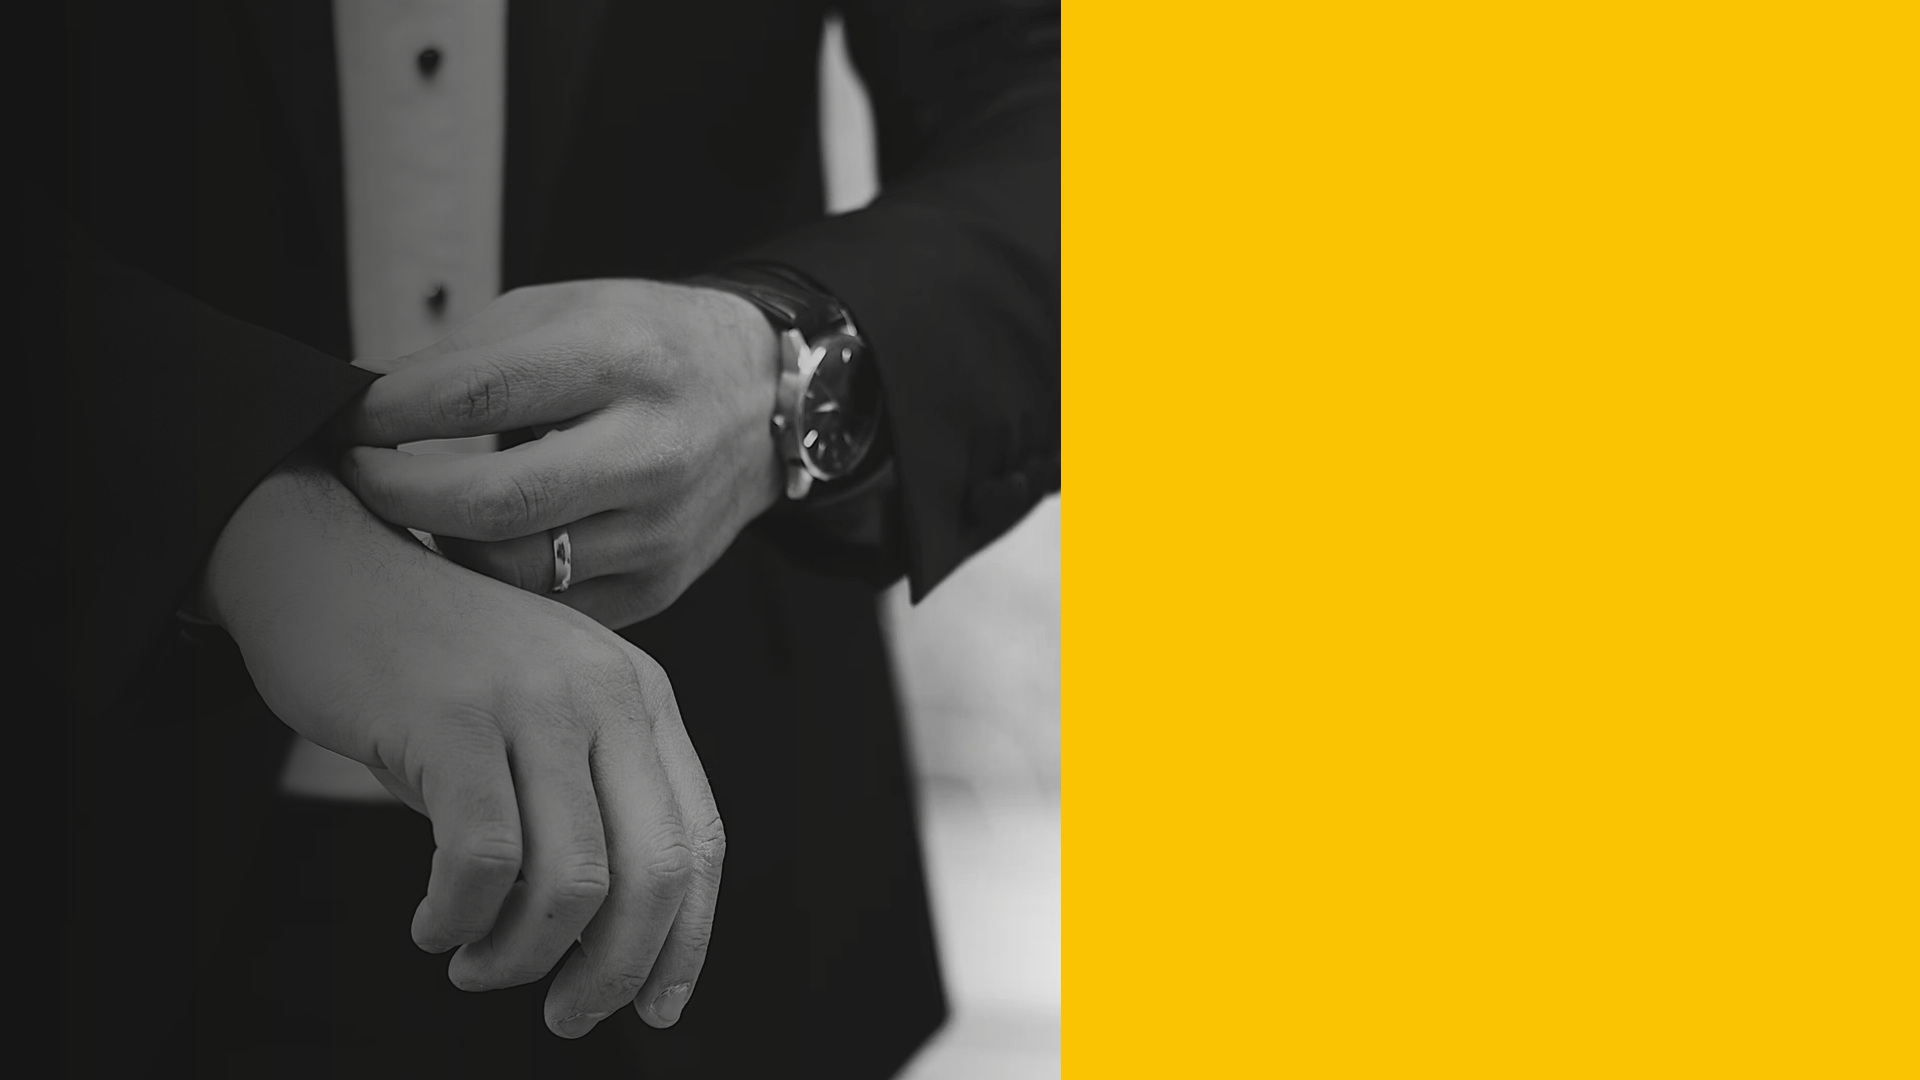
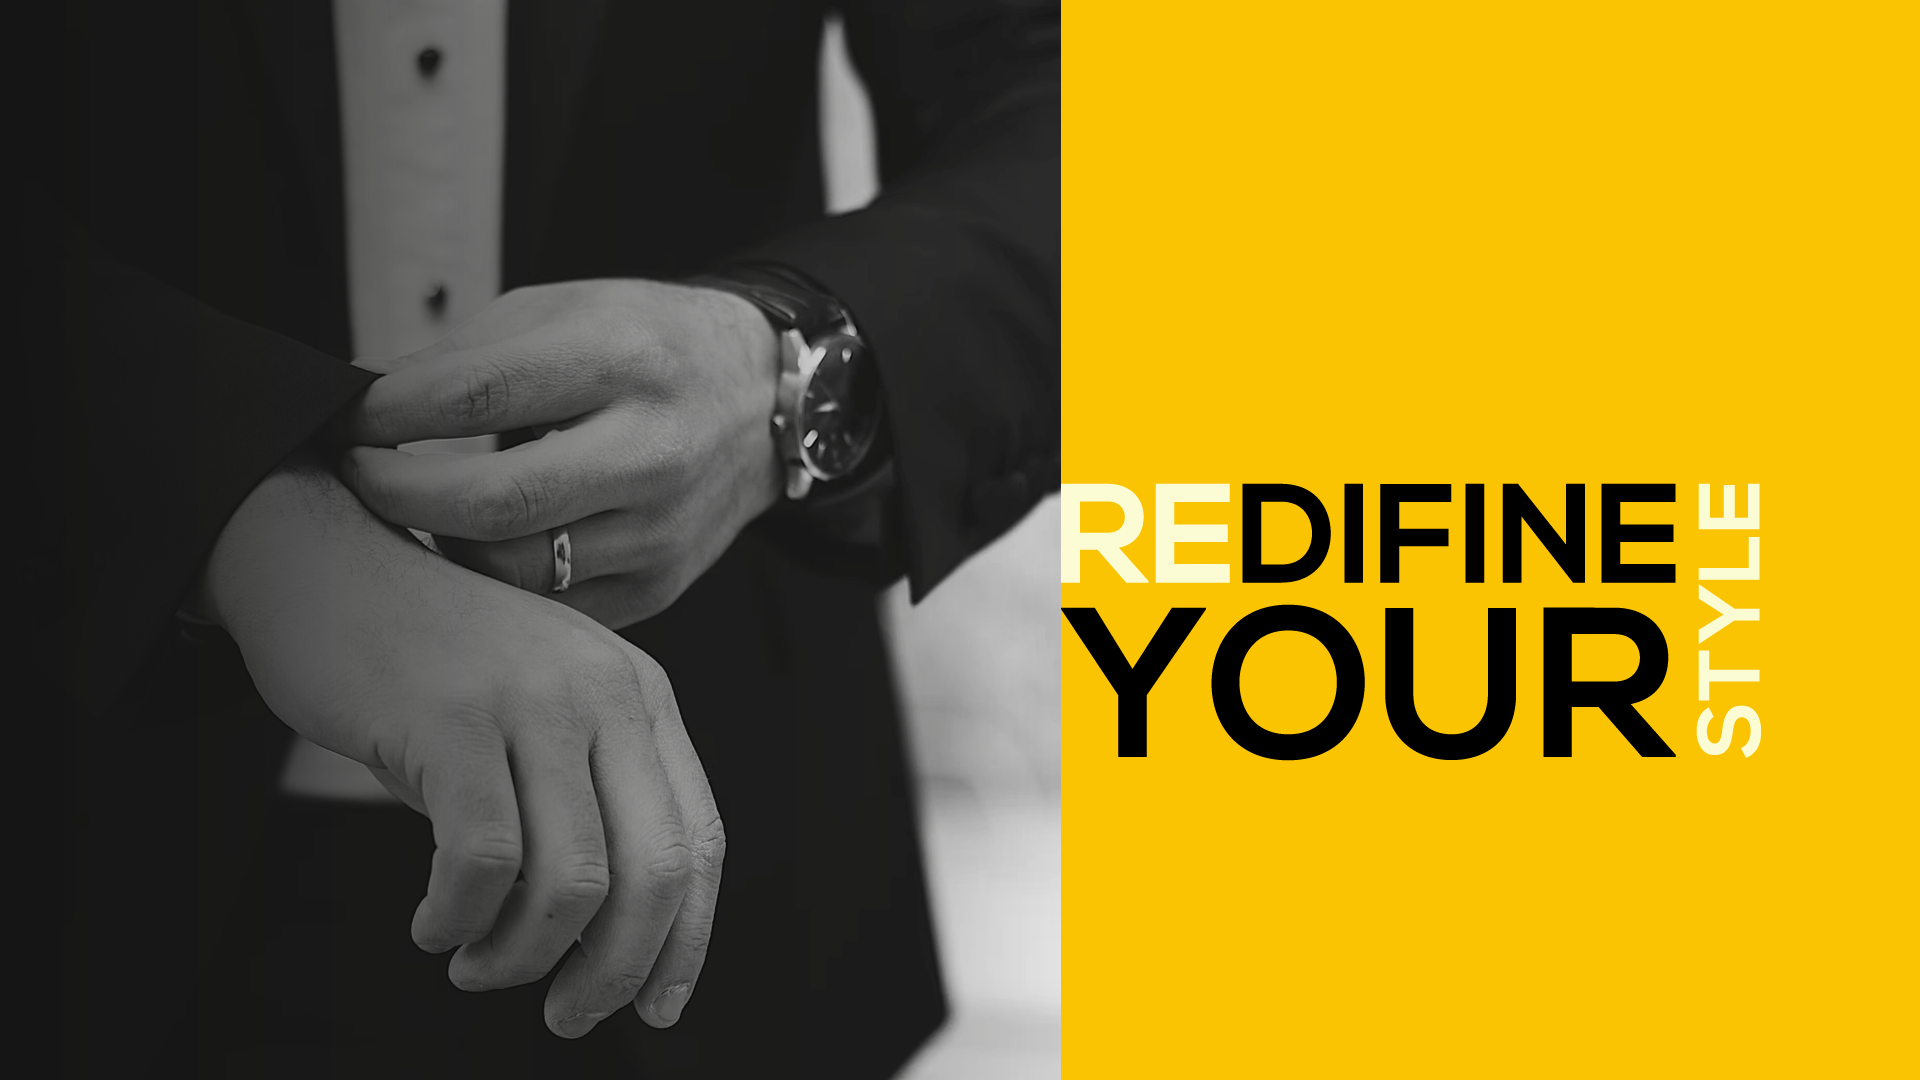
changing home bg

Changed region(s): [[0.5312, 0.4278, 0.9375, 0.7028]]

diff --git a/css/index.css b/css/index.css
@@ -30,6 +30,9 @@
 #home h1{
     font-family: "Allessa";
 }
+.tagLine{
+    display: none;
+}
 #socialMedia{
     position: absolute;
     bottom: 5%;
@@ -212,8 +215,24 @@ form button:hover{
         background-image: url("../images/mobbg.png");
         background-position: center;
     }
+    #home span{
+        flex-direction: column;
+    }
     #home nav{
         display: none;
+    }
+    #home h1{
+        font-size: 40px;
+        width: 80%;
+        margin: auto;
+        line-height: 2;
+        text-align: center;
+    }
+    .tagLine{
+        display: block;
+        letter-spacing: 2px;
+        font-family: "Nexa-light";
+        color: var(--cream);
     }
     .footerLine i{
         font-size: 1rem;

diff --git a/index.html b/index.html
@@ -20,6 +20,7 @@
     <section id="home">
         <span>
             <h1>Ronith Vishwa</h1>
+            <p class="tagLine">REDIFINE YOUR STYLE</p>
             <nav>
                 <a href="#home">Home</a>
                 <a href="#aboutus">About</a>
